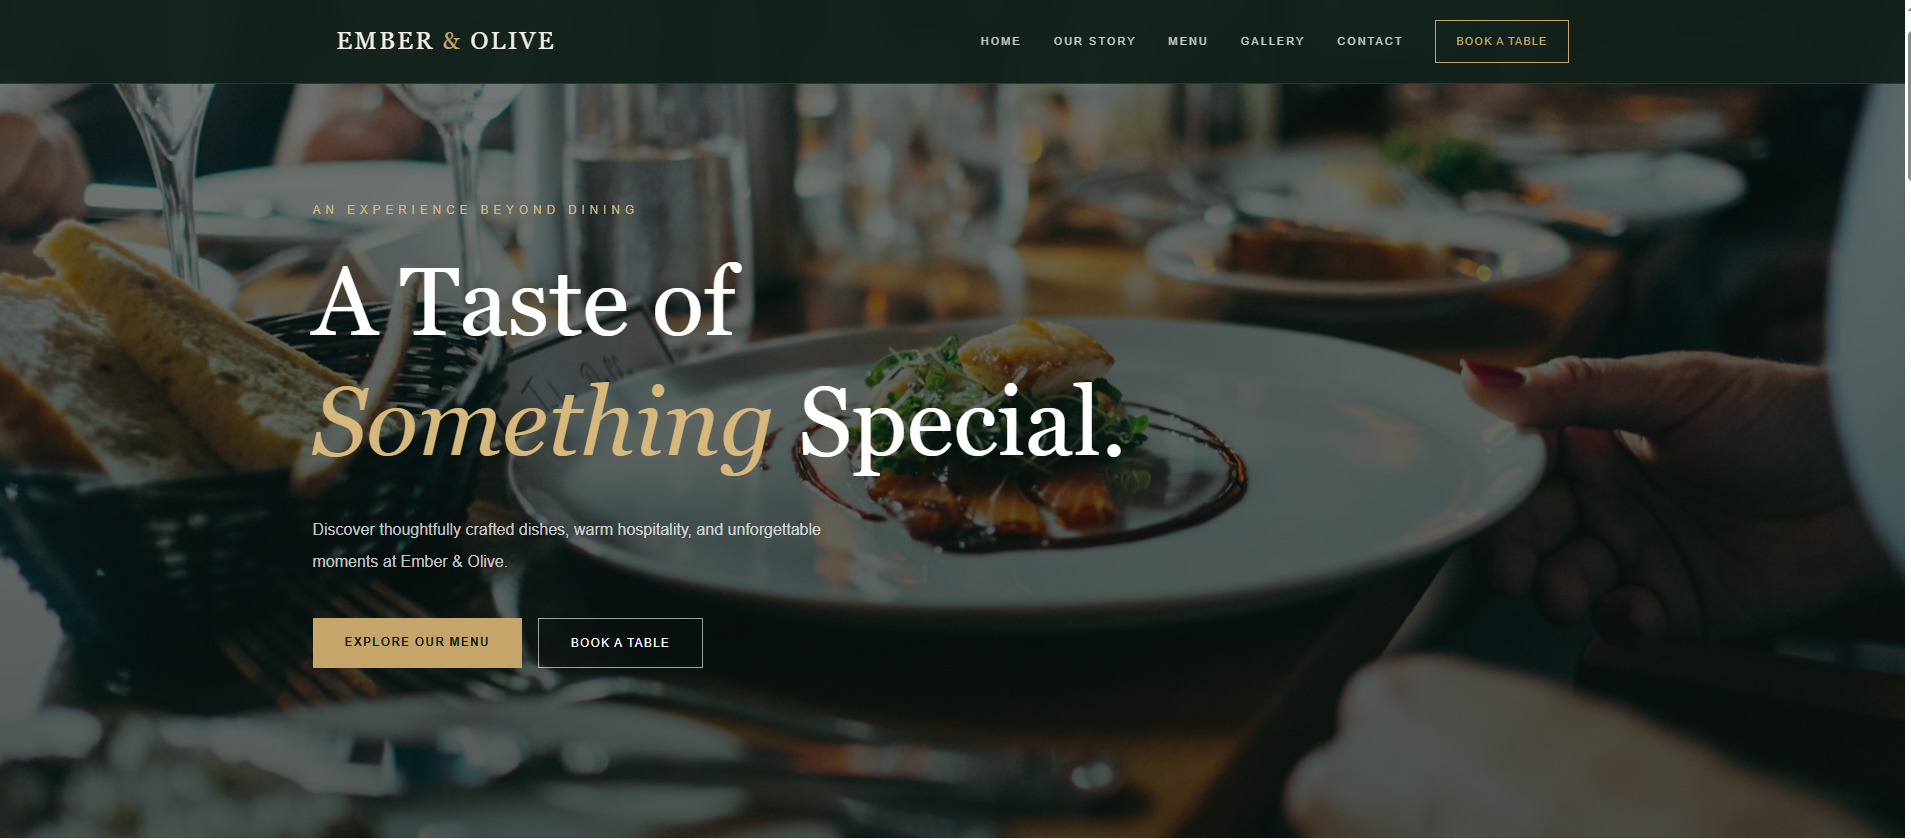
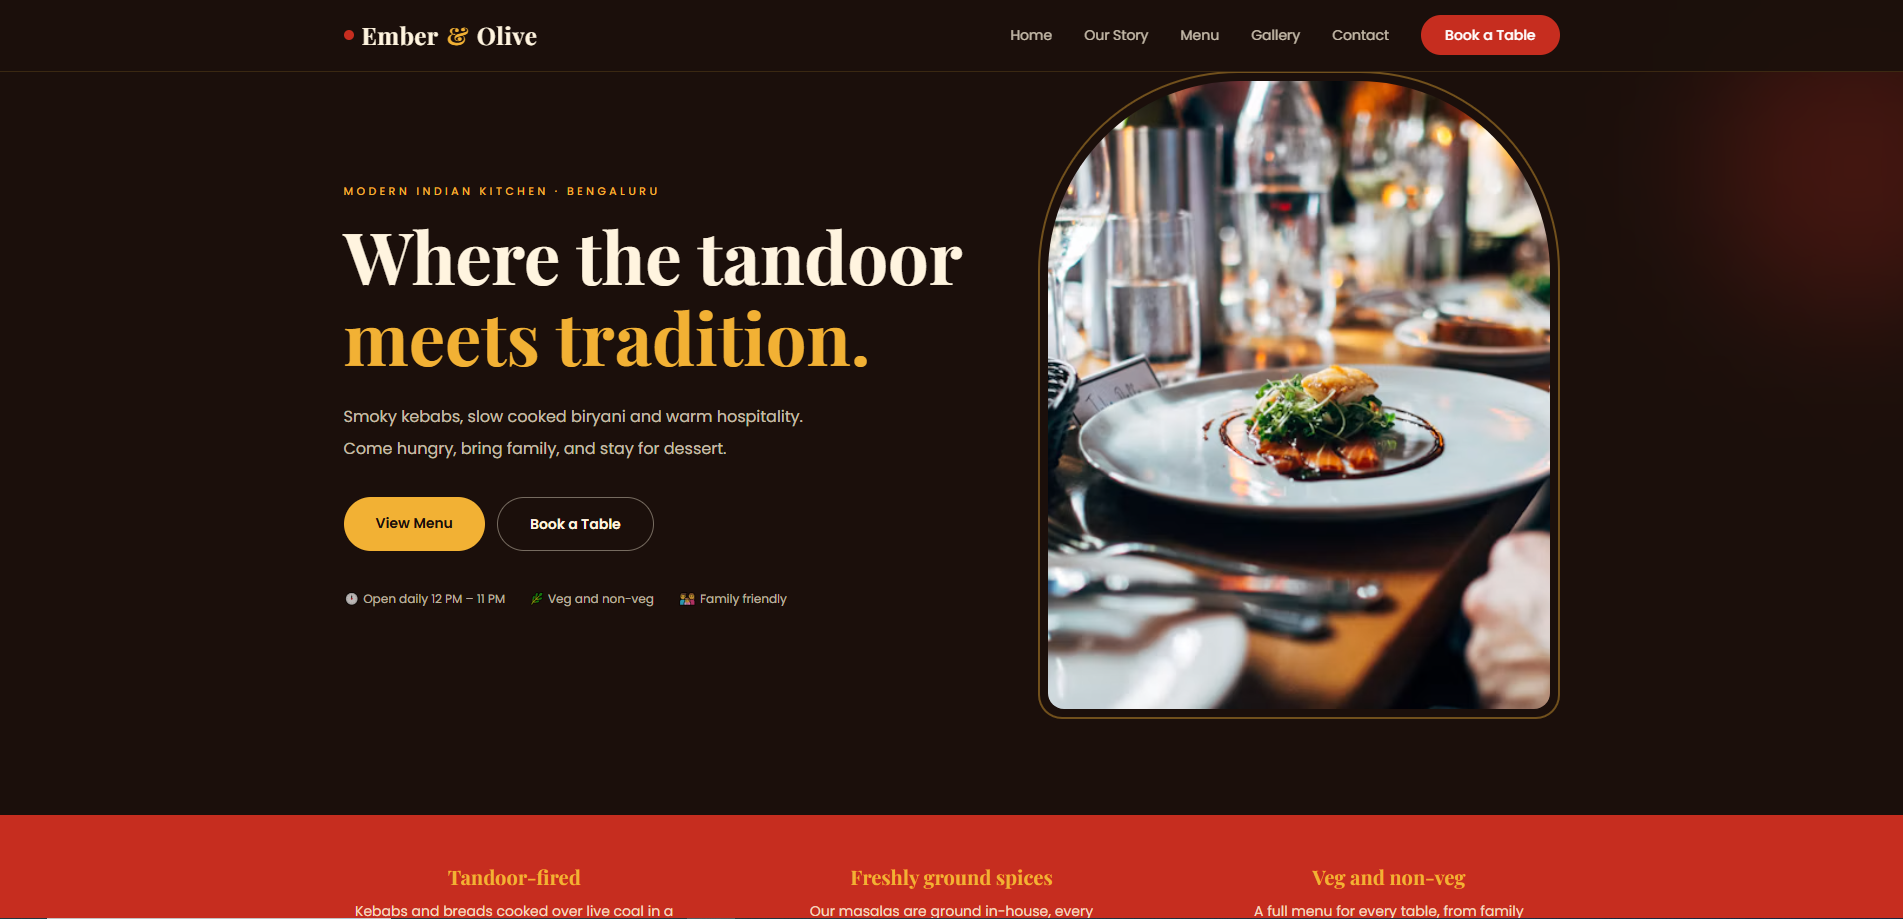
Update portfolio screenshot and OG image

diff --git a/app/layout.tsx b/app/layout.tsx
@@ -1,4 +1,4 @@
-import { Metadata } from "next";
+import type { Metadata } from "next";
 import { Geist, Geist_Mono } from "next/font/google";
 import "./globals.css";
 
@@ -12,13 +12,45 @@ const geistMono = Geist_Mono({
   subsets: ["latin"],
 });
 
+const siteUrl = "https://vebnora.prabhakarsamitipoguj.workers.dev";
+
+const siteTitle = "We Build Websites That Make Your Business Stand Out.";
+
+const siteDescription =
+  "We help businesses grow online with modern, beautiful and high-performing websites designed to turn visitors into customers.";
+
 export const metadata: Metadata = {
+  metadataBase: new URL(siteUrl),
+
   title: "Vebnora | Professional Website Design",
-  description:
-    "Vebnora creates modern, professional websites for businesses. Explore our web design services, packages, and portfolio.",
+
+  description: siteDescription,
+
+  openGraph: {
+    type: "website",
+    locale: "en_IN",
+    url: siteUrl,
+    siteName: "Vebnora",
+    title: siteTitle,
+    description: siteDescription,
+    images: [
+      {
+        url: "/images/og-image.png",
+        width: 1200,
+        height: 630,
+        alt: "Vebnora - We Build Websites That Make Your Business Stand Out.",
+      },
+    ],
+  },
+
+  twitter: {
+    card: "summary_large_image",
+    title: siteTitle,
+    description: siteDescription,
+    images: ["/images/og-image.png"],
+  },
 };
 
-// ఇక్కడ LayoutProps తీసేసి, React.ReactNode వాడాము
 export default function RootLayout({
   children,
 }: {
